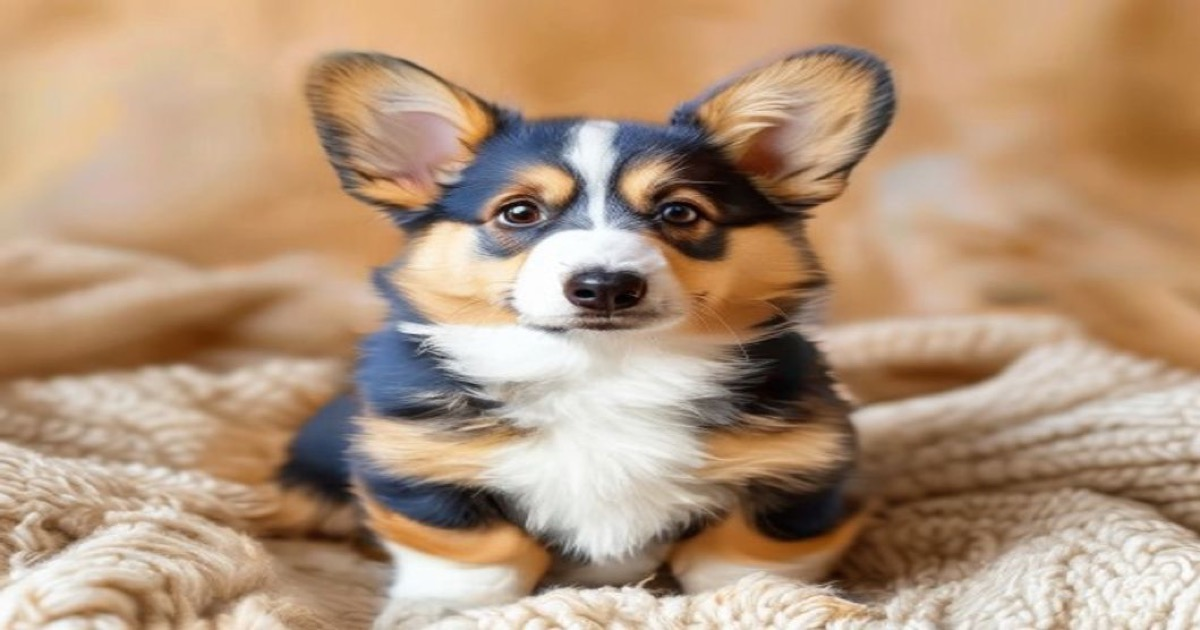
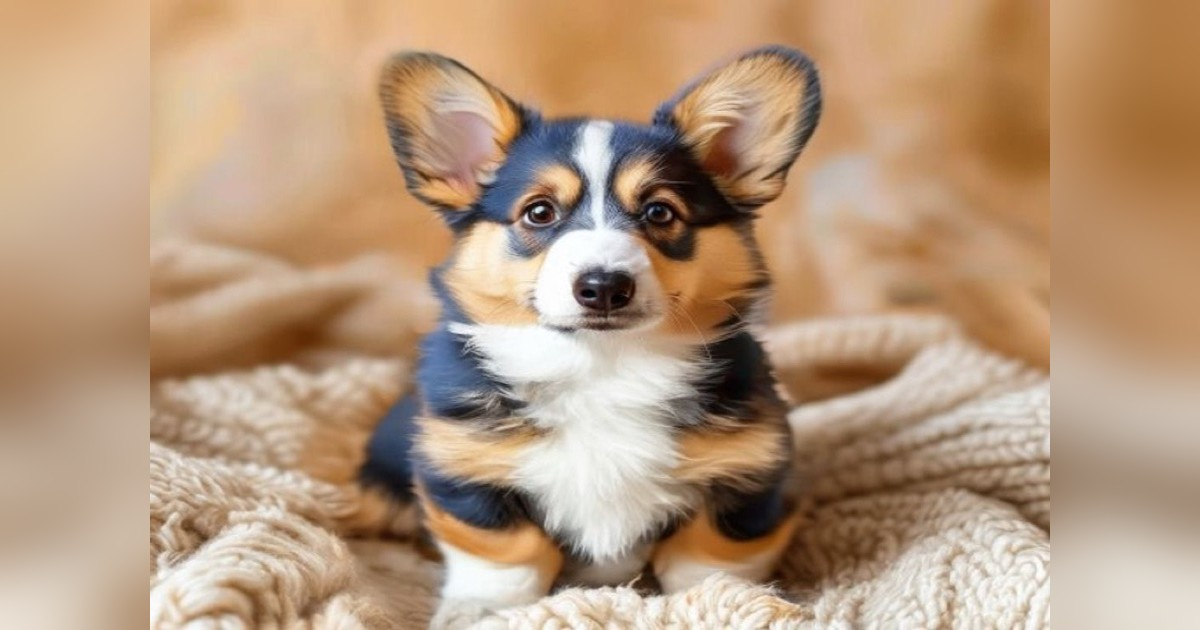
sobaka: фикс растянутой собаки — де-растянуть изображение (была искажена в исходнике)
Корень: og.jpg была растянута по горизонтали (~1.9x) при создании баннера, поэтому object-fit cover не помогал — пиксели уже искажены. Восстановил пропорции (900x630), hero теперь на dog.jpg (aspect 10/7), новая OG 1200x630 = неискажённая собака по центру + размытый фон.

Claude-Session: https://claude.ai/code/session_017HTsAYHUd5C6mr1gkQDhyS

diff --git a/sobaka/index.html b/sobaka/index.html
@@ -45,8 +45,8 @@
   /* ---------- HERO ---------- */
   .hero{position:relative;margin-bottom:30px}
   .photo{position:relative;border-radius:20px;overflow:hidden;box-shadow:var(--sh);border:1px solid var(--line);
-    transform:rotate(-1.2deg);aspect-ratio:3/2;background:var(--coral-soft)}
-  .photo img{display:block;width:100%;height:100%;object-fit:cover;object-position:center 36%}
+    transform:rotate(-1.2deg);aspect-ratio:10/7;background:var(--coral-soft)}
+  .photo img{display:block;width:100%;height:100%;object-fit:cover;object-position:center}
   .photo::after{content:"";position:absolute;inset:0;background:linear-gradient(160deg,rgba(224,83,31,0) 55%,rgba(29,24,19,.30))}
   .kick{font-family:"Space Grotesk";font-weight:700;font-size:12px;letter-spacing:.22em;text-transform:uppercase;
     color:var(--coral);margin:22px 0 4px}
@@ -189,7 +189,7 @@
 
   <!-- HERO -->
   <header class="hero">
-    <div class="photo"><img src="og.jpg" alt="Щенок вельш-корги кардиган"></div>
+    <div class="photo"><img src="dog.jpg" alt="Щенок вельш-корги кардиган"></div>
     <div class="kick">🐾 План для Марка · 24–26 июня</div>
     <h1>Привозим <span class="hl">собаку</span> в Грузию</h1>
     <p class="lead">Корги едет из Питера к Тиму. <b>Поезд → забор щенка → перелёт → граница.</b> Ниже — каждый шаг, документы по моментам и что взять.</p>